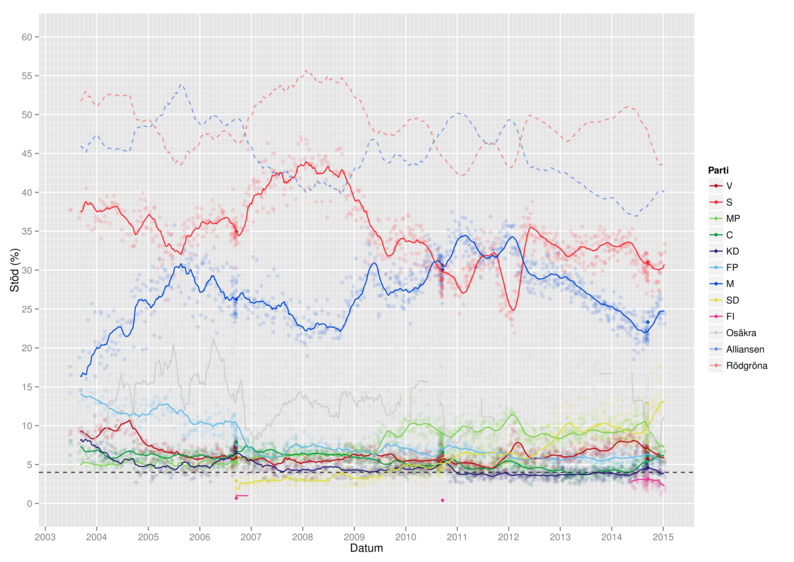
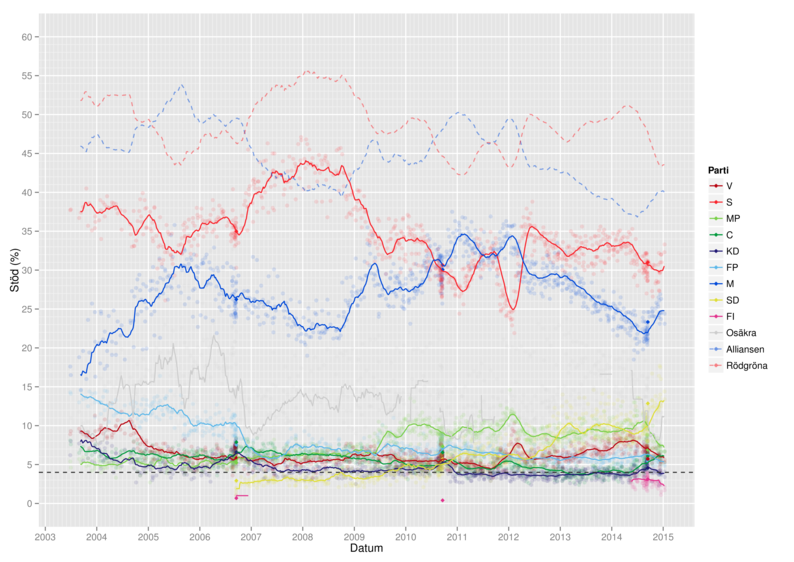
polls.r: change weighing method slightly
Now, weights are based on the number of respondents _per day_ of each survey.
Upon visual inspection this makes little difference, but it feels more correct.

diff --git a/polls/README.md b/polls/README.md
@@ -3,6 +3,6 @@
 ![Swedish poll of polls](sample.png?raw=true)
 
 This R script fetches data from [MansMeg/SwedishPolls][swedishpolls] and uses that data to provide a weighted "poll of polls" of Swedish election polls.
-The polls are expanded to cover their collection period, then weighted by number of respondents. Then, a rolling average over 84 days is plotted.
+The polls are expanded to cover their collection period, then weighted by number of respondents per survey day. Then, a rolling average over 84 days is plotted.
 
 [swedishpolls]: https://github.com/MansMeg/SwedishPolls
